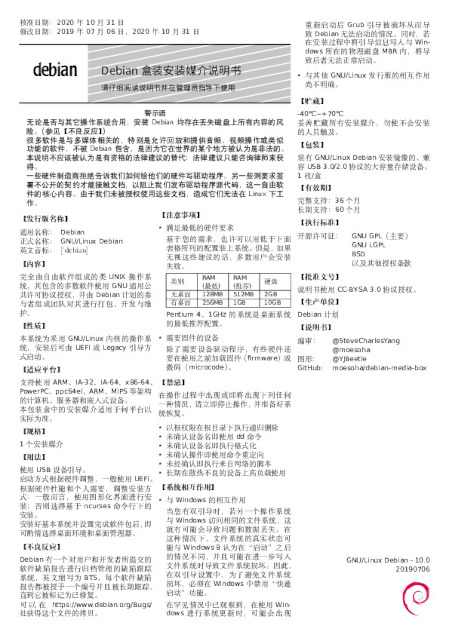
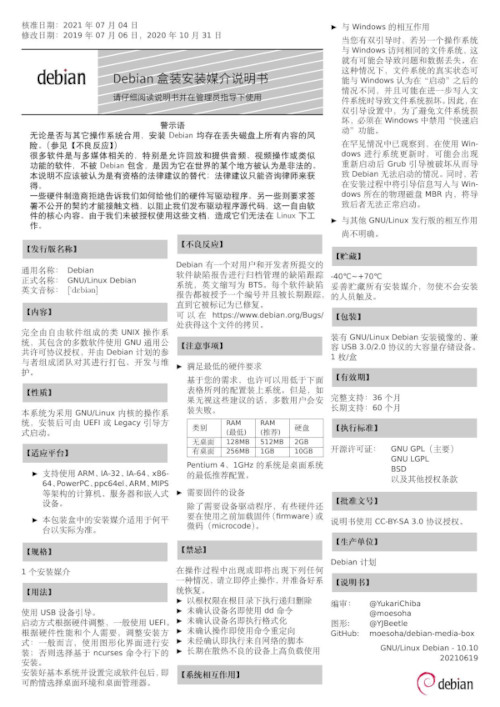
Add GitHub Action and update layout. (#11)
* Update layout, bump version, add github actions, modify readme.

* Modify date and compress preview image

diff --git a/instruction.tex b/instruction.tex
@@ -27,6 +27,8 @@
 \renewcommand\tabularxcolumn[1]{m{#1}} % for vertical centering text in X column
 
 \usepackage{multicol}
+\usepackage[most]{tcolorbox}
+\usepackage{amssymb}
 \setlength{\columnsep}{3mm}
 
 \usepackage[explicit,compact]{titlesec}
@@ -87,6 +89,21 @@
    \mbox{\rlap{\raisebox{-\dp\mysavebox}{\imgcmd}}\usebox\mysavebox}%
 }
 
+\renewcommand{\labelitemi}{$\blacktriangleright$}
+
+\tcbset{
+    frame code={}
+    center title,
+    left=0pt,
+    right=0pt,
+    top=6pt,
+    bottom=0pt,
+    colback=gray!40,
+    colframe=white,
+    enlarge left by=0mm,
+    boxsep=0pt,
+    arc=0pt,outer arc=0pt,
+}
 
 \begin{document}
 \begin{multicols*}{3}
@@ -94,8 +111,8 @@
 	\setlength{\abstractwidth}{2\linewidth}
 	\addtolength{\abstractwidth}{\columnsep}
 	\savebox{\twocolinsert}{\begin{minipage}{\abstractwidth}
-		\noindent 核准日期：2020年10月31日
-		\newline 修改日期：2019年07月06日，2020年10月31日
+		\noindent 核准日期：2021年07月04日
+		\newline 修改日期：2019年07月06日，2020年10月31日，2021年07月04日
 		\newline
 
 		% \begin{mdframed}[leftline=false, rightline=false, innertopmargin=0pt, innerbottommargin=0pt, innerrightmargin=0pt, innerleftmargin=2em]
@@ -128,37 +145,61 @@
 	\noindent\usebox{\twocolinsert}
 
 
+	\begin{tcolorbox}
 	\section*{发行版名称}
+	\end{tcolorbox}
 	\begin{tabularx}{\linewidth}{@{}ll@{}}
 		通用名称： & Debian \\
 		正式名称： & GNU/Linux Debian \\
 		英文音标： & \textipa{["dEbi@n]} \\
 	\end{tabularx}
+	
+	\medskip
 
 
+	\begin{tcolorbox}
 	\section*{内容}
+	\end{tcolorbox}
 
 	完全由自由软件组成的类 UNIX 操作系统，其包含的多数软件使用 GNU 通用公共许可协议授权，并由 Debian 计划的参与者组成团队对其进行打包、开发与维护。
+	
+	% 内核版本：4.19.0
+
+	% 版本号：“buster”
+
+	\medskip
 
 
+	\begin{tcolorbox}
 	\section*{性质}
+	\end{tcolorbox}
 
 	本系统为采用 GNU/Linux内核的操作系统，安装后可由 UEFI 或 Legacy 引导方式启动。
-
-		
-	\section*{适应平台}
-
-	支持使用 ARM、IA-32、IA-64、x86-64、PowerPC、ppc64el、ARM、MIPS 等架构的计算机、服务器和嵌入式设备。
-
-	本包装盒中的安装媒介适用于何平台以实际为准。
-
-
-	\section*{规格}
 	
+	\medskip
+
+	
+	\begin{tcolorbox}
+	\section*{适应平台}
+	\end{tcolorbox}
+
+	\begin{itemize}
+		\item 支持使用 ARM、IA-32、IA-64、x86-64、PowerPC、ppc64el、ARM、MIPS 等架构的计算机、服务器和嵌入式设备。
+		\item 本包装盒中的安装媒介适用于何平台以实际为准。
+	\end{itemize}
+
+
+	\begin{tcolorbox}
+	\section*{规格}
+	\end{tcolorbox}
+
 	1 个 安装媒介
 
+	\medskip
 
+	\begin{tcolorbox}
 	\section*{用法}
+	\end{tcolorbox}
 
 	使用 USB 设备引导。
 
@@ -168,15 +209,22 @@
 	
 	安装好基本系统并设置完成软件包后，即可酌情选择桌面环境和桌面管理器。
 		
+	\medskip
 
+	\begin{tcolorbox}
 	\section*{不良反应}
+	\end{tcolorbox}
 
 	Debian 有一个对用户和开发者所提交的软件缺陷报告进行归档管理的缺陷跟踪系统，英文缩写为 BTS。每个软件缺陷报告都被授予一个编号并且被长期跟踪，直到它被标记为已修复。
 	
 	可以在 https://www.debian.org/Bugs/ 处获得这个文件的拷贝。
 
+	\medskip
 
+
+	\begin{tcolorbox}
 	\section*{注意事项}
+	\end{tcolorbox}
 	\begin{itemize}[leftmargin=*]
 
 		\item 满足最低的硬件要求
@@ -202,7 +250,9 @@
 	\end{itemize}
 
 
+	\begin{tcolorbox}
 	\section*{禁忌}
+	\end{tcolorbox}
 
 	在操作过程中出现或即将出现下列任何一种情况，请立即停止操作，并准备好系统恢复。
 
@@ -220,43 +270,83 @@
 	\end{itemize}
 
 
+	% \begin{tcolorbox}
+	% \section*{无障碍安装}
+	% \end{tcolorbox}
+
+	% Debian GNU/Linux 安装介质不用于视力或运动障碍人士。
+	
+	% \medskip
+
+	% \begin{tcolorbox}
+	% \section*{新手安装}
+	% \end{tcolorbox}
+
+	% Debian GNU/Linux 应谨慎用于新手安装，需要在管理员指导下进行安装，并且需要进行密切的系统监测，一旦出现系统完整度的恶化，应考虑停止使用 Debian GNU/Linux。
+
+	% \medskip
+
+
+	% \begin{tcolorbox}
+	% \section*{版本迭代}
+	% \end{tcolorbox}
+
+
+	\begin{tcolorbox}
 	\section*{系统相互作用}
+	\end{tcolorbox}
 	\begin{itemize}[leftmargin=*]
 		\setlength{\parindent}{0pt}
 
 		\item 与 Windows 的相互作用
 		
-		当您有双引导时，若另一个操作系统与 Windows 访问相同的文件系统，这就有可能会导致问题和数据丢失。在这种情况下，文件系统的真实状态可能与 Windows 8 认为在“启动”之后的情况不同，并且可能在进一步写入文件系统时导致文件系统损坏。因此，在双引导设置中，为了避免文件系统损坏，必须在 Windows 中禁用“快速启动”功能。
+		当您有双引导时，若另一个操作系统与 Windows 访问相同的文件系统，这就有可能会导致问题和数据丢失。在这种情况下，文件系统的真实状态可能与 Windows 认为在“启动”之后的情况不同，并且可能在进一步写入文件系统时导致文件系统损坏。因此，在双引导设置中，为了避免文件系统损坏，必须在 Windows 中禁用“快速启动”功能。
 		
 		在罕见情况中已观察到，在使用 Windows 进行系统更新时，可能会出现重新启动后 Grub 引导被破坏从而导致 Debian 无法启动的情况。同时，若在安装过程中将引导信息写入与 Windows 所在的物理磁盘 MBR 内，将导致后者无法正常启动。
 
-		\item 与其他 GNU/Linux 发行版的相互作用尚不明确。
+		\item 与其他 GNU/Linux 发行版的相互作用
+		
+		尚不明确。
 
 	\end{itemize}
 
 
+	\begin{tcolorbox}
 	\section*{贮藏}
+	\end{tcolorbox}
 
 	-40℃\textasciitilde +70℃
 
 	妥善贮藏所有安装媒介，勿使不会安装的人员触及。
 
+	\medskip
 
+
+	\begin{tcolorbox}
 	\section*{包装}
+	\end{tcolorbox}
 
 	装有 GNU/Linux Debian 安装镜像的、兼容 USB 3.0/2.0 协议的大容量存储设备。
 	
 	1 枚/盒
 
+	\medskip
 
+
+	\begin{tcolorbox}
 	\section*{有效期}
+	\end{tcolorbox}
 
 	完整支持：36 个月
 
 	长期支持：60 个月
 
+	\medskip
 
+
+	\begin{tcolorbox}
 	\section*{执行标准}
+	\end{tcolorbox}
 	\begin{tabularx}{\linewidth}{@{}ll@{}}
 		\multirow{4}{*}{}{开源许可证：} & GNU GPL（主要）\\
 		~ & GNU LGPL \\
@@ -264,32 +354,50 @@
 		~ & 以及其他授权条款 \\
 	\end{tabularx}
 
+	\medskip
 
+
+	\begin{tcolorbox}
 	\section*{批准文号}
+	\end{tcolorbox}
 
 	说明书使用 CC-BY-SA 3.0 协议授权。
 
+	\medskip
 
+
+	\begin{tcolorbox}
 	\section*{生产单位}
+	\end{tcolorbox}
 
 	Debian 计划
 
+	\medskip
 
+
+	\begin{tcolorbox}
 	\section*{说明书}
+	\end{tcolorbox}
 	\begin{tabularx}{\linewidth}{@{}ll@{}}
-		\multirow{2}{*}{}{编审：} & @SteveCharlesYang\\
+		\multirow{2}{*}{}{编审：} & @YukariChiba\\
 		~ & @moesoha \\
 		图形: & @YJBeetle\\
 		GitHub: & moesoha/debian-media-box\\
 	\end{tabularx}
 
+	\medskip
+
 
 	\vfill
 	\begin{flushright}
-		GNU/Linux Debian - 10.0\linebreak 20190706
+		GNU/Linux Debian - 10.10\linebreak 20210619
 		\linebreak
 		\newline
-		\includegraphics[width=13mm]{assets/debian-logo.eps}
+		\begin{minipage}{0,5\textwidth}
+			\centering
+			$\vcenter{\hbox{\includegraphics[height=10mm]{assets/debian-logo.eps}}}$
+			$\vcenter{\hbox{\includegraphics[height=5mm]{assets/debian-text.eps}}}$
+		\end{minipage}
 	\end{flushright}
 
 \end{multicols*}

diff --git a/README.md b/README.md
@@ -31,7 +31,7 @@
   - 某不愿透露姓名的辣鸡嫖虫 (包装盒初稿)
   - dfceaef (包装盒文案)
   - Soha (包装盒与说明书的终稿)
-  - CharlesYang (说明书创意与文案, [#3](https://github.com/moesoha/debian-media-box/issues/3))
+  - YukariChiba (说明书创意与文案, [#3](https://github.com/moesoha/debian-media-box/issues/3))
   - IcesandSora (包装盒创意)
 
 ## LICENSE
